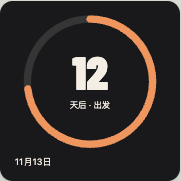
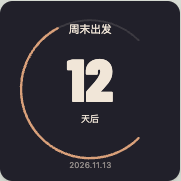
design: rework palette clock and refine seven capability templates

Changed region(s): [[0.1105, 0.0829, 0.884, 0.9392], [0.3591, 0.3039, 0.6354, 0.6906], [0.0829, 0.8564, 0.2762, 0.9392]]

diff --git a/design/template-library-2026-11-01/renderers.js b/design/template-library-2026-11-01/renderers.js
@@ -17,10 +17,19 @@ function list(r,style='plain'){if(!r.agenda.length)return '<div class="empty"><s
 function cover(){return `<div class="cover-art">${svg('<rect width="300" height="300" fill="#2B49BF"/><circle cx="185" cy="104" r="73" fill="#F3BD5B"/><path d="M0 160 Q80 100 150 170 T300 167 V300 H0Z" fill="#AAC6E2"/><path d="M0 229 Q90 161 166 229 T300 215 V300 H0Z" fill="#182C7A"/>')}</div>`;}
 function lesson(r){const n=r.next[0];return n?`<span class="eyebrow">${new Date(n.start).toDateString()===r.d.toDateString()?'今天':(new Date(n.start).getMonth()+1)+'月'+new Date(n.start).getDate()+'日'} · ${data.timeText(n.start)}</span><h2>${safe(r.title||n.title)}</h2><div class="course-meta"><strong>${data.timeText(n.start)}—${data.timeText(n.end)}</strong><span>${safe(n.location)}</span></div>`:'<div class="empty"><strong>暂时没有课程</strong><span>导入你的课表</span></div>';}
 function world(r){const shifted=new Date(r.tick-time.clockOffset('Asia/Tokyo',r.tick)*3600000);return {h:pad(shifted.getUTCHours()),m:pad(shifted.getUTCMinutes()),month:shifted.getUTCMonth()+1,day:shifted.getUTCDate(),date:time.cityReading('Asia/Tokyo',r.tick).date};}
+
+function arcPath(cx,cy,r,start,end){const point=a=>[cx+Math.sin(a*Math.PI/180)*r,cy-Math.cos(a*Math.PI/180)*r],a=point(start),b=point(end);return `M${a[0].toFixed(3)} ${a[1].toFixed(3)} A${r} ${r} 0 ${end-start>180?1:0} 1 ${b[0].toFixed(3)} ${b[1].toFixed(3)}`;}
+function paletteDial(r){const h=(r.d.getHours()%12)*30+r.d.getMinutes()/2,m=r.d.getMinutes()*6,stroke=(a,len,width,color)=>{const t=a*Math.PI/180;return line(150,150,150+Math.sin(t)*len,150-Math.cos(t)*len,color,width,'stroke-linecap="round"');};const hands=stroke(h,69,8,'#faffff')+stroke(h,69,4.7,'var(--hour-ink)')+stroke(m,104,5.2,'#faffff')+stroke(m,104,2.8,'var(--minute-ink)')+circle(150,150,4.1,'#fff')+circle(150,150,1.8,'#ee6690');return `<div class="palette-art" style="--hour-angle:${h}deg;--minute-angle:${m}deg;--day-angle:${r.d.getHours()*15}deg" role="img" aria-label="${r.h}:${r.m}"><div class="palette-band outer"></div><div class="palette-band middle"></div><div class="palette-band core"></div>${svg(hands)}<span class="palette-date">${r.month}.${r.day}</span></div>`;}
+function countdownArc(r,num){let x=`<path d="${arcPath(150,147,115,135,405)}" fill="none" stroke="currentColor" stroke-opacity=".13" stroke-width="3" stroke-linecap="round"/>`;if(r.countP>0)x+=`<path d="${arcPath(150,147,115,135,135+270*r.countP)}" fill="none" stroke="var(--accent)" stroke-width="4" stroke-linecap="round"/>`;x+=txt(num,150,169,100,'currentColor','middle','font-family="Barlow" font-weight="900"')+txt('天后',150,202,15,'currentColor','middle');return svg(x)+`<span class="orbit-title">${safe(r.title||'周末出发')}</span><span class="orbit-date">${r.empty?'设置目标日期':safe(r.targetDate.replaceAll('-','.'))}</span>`;}
+function daySegments(r){let x='';for(let i=0;i<24;i++){const start=i*15+2,end=i*15+13;x+=`<path d="${arcPath(150,146,103,start,end)}" fill="none" stroke="currentColor" stroke-opacity=".12" stroke-width="12"/>`;const fill=Math.max(0,Math.min(1,r.dayP*24-i));if(fill)x+=`<path d="${arcPath(150,146,103,start,start+11*fill)}" fill="none" stroke="var(--accent)" stroke-width="12"/>`;}x+=txt(Math.floor(r.dayP*100)+'%',150,158,64,'currentColor','middle','font-weight="350" letter-spacing="-3"')+txt('今天',150,184,14,'currentColor','middle')+txt('00',150,25,11,'currentColor','middle')+txt('06',278,150,11,'currentColor','middle')+txt('12',150,280,11,'currentColor','middle')+txt('18',22,150,11,'currentColor','middle');return svg(x);}
+function yearOrbit(r){let x='';for(let i=0;i<12;i++){const a=i*30*Math.PI/180;x+=line(150+Math.sin(a)*114,148-Math.cos(a)*114,150+Math.sin(a)*121,148-Math.cos(a)*121,'currentColor',1,'opacity=".25"');}x+=circle(150,148,102,'none','stroke="currentColor" stroke-opacity=".1" stroke-width="5"')+circle(150,148,102,'none',`stroke="var(--accent)" stroke-width="5" stroke-linecap="round" stroke-dasharray="${r.yearP*640.88} 640.88" transform="rotate(-90 150 148)"`)+txt(r.year,150,117,15,'currentColor','middle','opacity=".65"')+txt(Math.floor(r.yearP*100)+'%',150,170,63,'currentColor','middle','font-weight="350" letter-spacing="-3"');return svg(x)+`<div class="year-counts"><span><b>${r.yearDay}</b> 天已过</span><span><b>${r.daysInYear-r.yearDay}</b> 天剩余</span></div>`;}
+function sevenSegment(value){const masks={0:'abcedf',1:'bc',2:'abged',3:'abgcd',4:'fgbc',5:'afgcd',6:'afgecd',7:'abc',8:'abcdefg',9:'abfgcd','—':'g'},lines={a:[9,8,43,8],b:[48,15,48,61],c:[48,78,48,124],d:[9,132,43,132],e:[4,78,4,124],f:[4,15,4,61],g:[9,70,43,70]},chars=String(value??'—'),width=chars.length*65-13;let x='';[...chars].forEach((digit,i)=>{for(const [key,l] of Object.entries(lines))x+=line(...l,'currentColor',6,`transform="translate(${i*65} 0)" opacity="${(masks[digit]||'').includes(key)?'.93':'.07'}" stroke-linecap="square"`);});return svg(x,`-6 -3 ${width+12} 148`);}
+function weekSchedule(r){const start=8*60,end=16*60,courseCap={k:'timetable',semester:f.semester,courses:r.courses,skipHolidays:false},week=data.semesterWeek(f.semester,r.tick),events=lessons.weekLessons(courseCap,Math.max(1,week));return `<div class="top-line">周课表<span>第 ${week} 周</span></div><div class="schedule-days">${['一','二','三','四','五'].map(n=>`<span>${n}</span>`).join('')}</div><div class="schedule-axis">${[8,10,12,14,16].map((h,i)=>`<span style="top:${i*25}%">${pad(h)}</span>`).join('')}</div><div class="schedule-area">${events.filter(e=>e.day<=5).map(e=>{const when=new Date(e.event.start),until=new Date(e.event.end),a=when.getHours()*60+when.getMinutes(),b=until.getHours()*60+until.getMinutes(),top=(a-start)/(end-start)*100,height=(b-a)/(end-start)*100,name=r.long?'非常长的课程名称':e.event.title;return `<div class="schedule-event c${e.day%3}" style="left:${(e.day-1)*20+e.lane/e.lanes*19}%;width:${19/e.lanes}%;top:${top}%;height:${height}%" aria-label="${safe(name)} ${data.timeText(e.event.start)}"><b>${safe(name)}</b></div>`;}).join('')}</div>`;}
+
 function inner(id,r){const percent=Math.floor(r.dayP*100),yp=Math.floor(r.yearP*100),num=r.count===null?'—':r.count,elapsed=r.elapsed===null?'—':r.elapsed;
  switch(id){
  case 'standby':return `<div class="float-clock">${r.h}<span>:</span>${r.m}</div><div class="bottom-line">${r.month}月${r.day}日<span>${r.week}</span></div>`;
- case 'dial':return `<div class="dial-color"></div>${dial(r)}<span class="dial-date">${r.month}.${r.day}</span>`;
+ case 'dial':return paletteDial(r);
  case 'flip':return `<div class="flip-wrap">${[r.h,r.m].map(n=>`<div class="flip-face"><b>${n}</b><i></i></div>`).join('')}</div><div class="bottom-line">${r.month}月${r.day}日<span>${r.week}</span></div>`;
  case 'portrait':return `<div class="portrait-time">${r.h}:${r.m}</div><img class="portrait-cat" src="${A}cat-pipi.webp" alt="Painjet 的猫皮皮">`;
  case 'date-poster':return `<div class="top-line">${r.year}<span>${r.month}月</span></div><div class="date-huge">${r.day}</div><span class="vertical-week">${r.week}</span><div class="bottom-line">${r.month}月${r.day}日</div>`;
@@ -30,25 +39,25 @@ function inner(id,r){const percent=Math.floor(r.dayP*100),yp=Math.floor(r.yearP*
  case 'calendar-ledger':return `<div class="ledger-head"><b>${pad(r.month)}</b><span>${r.year}<small>${r.week}</small></span></div>${month(r)}`;
  case 'calendar-week':return `<span class="eyebrow">${r.month}月 · 本周</span><div class="week-title">${r.month}月${r.day}日</div>${week(r)}<span class="bottom-line">${r.week}</span>`;
  case 'countdown-poster':return `<span class="eyebrow">${safe(r.title||'周末出发')}</span><div class="count-huge">${num}<small>天</small></div><div class="bottom-line">${r.empty?'设置目标日期':r.targetDate.replaceAll('-','.')}</div>`;
- case 'countdown-orbit':return `${ring(r.countP,num,'天后 · '+(r.title||'出发'))}<div class="bottom-line">${r.empty?'设置目标日期':r.targetDate.slice(5).replace('-','月')+'日'}</div>`;
+ case 'countdown-orbit':return countdownArc(r,num);
  case 'countdown-paper':return `<div class="paper-top">${safe(r.title||'去看海')}</div><div class="paper-number">${num}<small>天后</small></div><div class="paper-end">${r.empty?'设置目标日期':r.targetDate.replaceAll('-',' / ')}</div>`;
  case 'anniversary-photo':return `<div class="photo-pet"><img src="${A}cat-pipi.webp" alt="Painjet 的猫皮皮"></div><div class="memory-copy"><span>${safe(r.title||'和皮皮相遇')}</span><strong>${elapsed}<small>天</small></strong></div>`;
  case 'anniversary-type':return `<span class="eyebrow">${safe(r.title||'在一起')}</span><div class="memory-type">${elapsed}</div><div class="bottom-line">天<span>${r.empty?'设置起始日期':'始于 2025.11.01'}</span></div>`;
- case 'anniversary-stamp':return `<div class="stamp">${svg(circle(150,150,120,'none','stroke="currentColor" stroke-width="1.5"')+circle(150,150,108,'none','stroke="currentColor" stroke-dasharray="2 5"')+txt(r.title||'值得纪念的一天',150,86,18,'currentColor','middle')+txt(elapsed,150,180,85,'currentColor','middle','font-family="Barlow" font-weight="900"')+txt('天 · '+(r.empty?'未设置':'2025.11.01'),150,216,14,'currentColor','middle'))}</div>`;
- case 'day-dial':return `${ring(r.dayP,percent+'%','今天已经走过')}<div class="bottom-line">00:00<span>24:00</span></div>`;
+ case 'anniversary-stamp':return `<div class="stamp">${svg(circle(150,150,120,'none','stroke="currentColor" stroke-width="1.5"')+circle(150,150,108,'none','stroke="currentColor" stroke-opacity=".35" stroke-width=".6"')+txt(r.title||'值得纪念的一天',150,86,18,'currentColor','middle')+txt(elapsed,150,178,78,'currentColor','middle','font-family="Georgia,serif" font-weight="400"')+txt('天 · '+(r.empty?'未设置':'2025.11.01'),150,216,14,'currentColor','middle'))}</div>`;
+ case 'day-dial':return daySegments(r);
  case 'day-timeline':return `<span class="eyebrow">今天</span><div class="progress-title">${percent}<small>%</small></div><div class="day-line"><span style="width:${r.dayP*100}%"></span><i style="left:${r.dayP*100}%"></i></div><div class="axis-labels"><span>00</span><span>06</span><span>12</span><span>18</span><span>24</span></div><div class="bottom-line">${r.h}:${r.m}<span>一天的进度</span></div>`;
  case 'day-blocks':return `<div class="top-line">一天<span>${percent}%</span></div><div class="hour-blocks">${Array.from({length:24},(_,i)=>`<i class="${i<r.d.getHours()?'past':i===r.d.getHours()?'now':''}"></i>`).join('')}</div><div class="bottom-line">${r.h}:${r.m}<span>24 小时</span></div>`;
  case 'year-dots':return `<div class="top-line"><strong>${r.year}</strong><span>${yp}%</span></div><div class="year-dots">${Array.from({length:r.daysInYear},(_,i)=>`<i class="${i<r.yearDay?'past':i===r.yearDay?'now':''}"></i>`).join('')}</div><div class="bottom-line">已过 ${r.yearDay} 天<span>剩余 ${r.daysInYear-r.yearDay} 天</span></div>`;
- case 'year-arc':return `${ring(r.yearP,r.yearDay,'天已过 · '+r.year)}<div class="bottom-line">${yp}%<span>还剩 ${r.daysInYear-r.yearDay} 天</span></div>`;
+ case 'year-arc':return yearOrbit(r);
  case 'year-months':return `<div class="top-line">${r.year}<span>${yp}%</span></div><div class="month-bars">${Array.from({length:12},(_,i)=>`<div><span>${i+1}</span><i style="--fill:${i<r.d.getMonth()?100:i===r.d.getMonth()?r.day/new Date(r.year,r.month,0).getDate()*100:0}%"></i></div>`).join('')}</div>`;
  case 'battery-ring':return ring(r.battery===null?0:r.battery/100,r.battery??'—','本机电量');
  case 'battery-cell':return `<span class="eyebrow">本机电量</span><div class="battery-glyph"><i style="height:${r.battery??0}%"></i><strong>${r.battery??'—'}</strong></div>`;
- case 'battery-segments':return `<span class="eyebrow">本机电量</span><div class="lcd-number">${r.battery??'—'}</div><div class="segments">${Array.from({length:10},(_,i)=>`<i class="${r.battery!==null&&i<Math.floor(r.battery/10)?'on':''}"></i>`).join('')}</div>`;
+ case 'battery-segments':return `<span class="eyebrow">本机电量</span><div class="lcd-reading">${sevenSegment(r.battery)}</div><div class="segments">${Array.from({length:10},(_,i)=>`<i style="background:linear-gradient(90deg,currentColor ${Math.max(0,Math.min(1,((r.battery??0)-i*10)/10))*100}%,#34432b14 0)"></i>`).join('')}</div>`;
  case 'agenda-editorial':return `<div class="top-line">接下来<span>${r.month}.${r.day}</span></div>${list(r,'editorial')}`;
  case 'agenda-timeline':return `<span class="eyebrow">今天的安排</span>${list(r,'timeline')}`;
  case 'agenda-paper':return `<div class="hand-title">今日小记<span>${r.month}/${r.day}</span></div>${list(r,'notebook')}`;
  case 'course-next':return lesson(r);
- case 'course-week':{let body='';for(let day=1;day<=5;day++){body+=`<div class="course-col"><span>${['','一','二','三','四','五'][day]}</span>`;for(let i=0;i<3;i++){const course=r.courses.filter(c=>c.day===day)[i];body+=`<div class="course-block c${(day+i)%3}">${course?safe(r.long?'非常长的课程名称':course.name):''}</div>`;}body+='</div>';}return `<div class="top-line">周课表<span>第 ${data.semesterWeek(f.semester,r.tick)} 周</span></div><div class="course-grid">${body}</div>`;}
+ case 'course-week':return weekSchedule(r);
  case 'course-slips':return `<div class="top-line">接下来<span>课程</span></div><div class="course-slips">${r.next.slice(0,3).map((e,i)=>`<div><time>${data.timeText(e.start)}</time><strong>${safe(r.title&&i===0?r.title:e.title)}</strong><small>${safe(e.location)}</small></div>`).join('')||'<div class="empty">暂时没有课程</div>'}</div>`;
  case 'world-dial':{const w=world(r);return `${dial(r,{world:true})}<div class="world-dial-label">东京 ${w.h}:${w.m}</div>`;}
  case 'world-duo':{const w=world(r);return `<div class="world-columns"><div><span>北京</span><b>${r.h}<small>${r.m}</small></b><em>${r.month}月${r.day}日</em></div><div><span>东京</span><b>${w.h}<small>${w.m}</small></b><em>${w.month}月${w.day}日</em></div></div>`;}

diff --git a/design/template-library-2026-11-01/templates.css b/design/template-library-2026-11-01/templates.css
@@ -21,3 +21,26 @@
 .mix-standby{aspect-ratio:2}.standby-duo{inset:5% 4%}.standby-duo>div+div>svg{top:24%;height:80%}.duo-date b{font-size:20cqw}.duo-date span{font-size:2.7cqw}
 .standby-digital{display:none}
 @container(max-width:210px){.mix-standby .standby-duo>div>svg{display:none}.standby-digital{display:block;font-size:13cqw;font-weight:400;letter-spacing:-.5cqw;position:absolute;top:30%;left:0;right:0;text-align:center}.mix-standby .duo-date{position:absolute;inset:0;display:flex;flex-direction:column;justify-content:center;gap:1cqw;align-items:center}.mix-standby .duo-date b{font-size:23cqw}.mix-standby .duo-date span{font-size:4cqw;text-align:center}}
+/* Palette revision 2: three independent time-oriented chromatic layers. */
+.dial{--bg:#8299ed;--ink:#fff;--accent:#fff;--p-blue:#739ef1;--p-cyan:#5ed8e6;--p-violet:#a28ce8;--p-pink:#ee599a;--p-yellow:#ede755;--hour-ink:#e5e459;--minute-ink:#6bdde2}
+.palette-art{position:absolute;inset:0;background:conic-gradient(from var(--day-angle) at 50% 50%,var(--p-cyan),var(--p-blue) 110deg,var(--p-violet) 210deg,var(--p-pink) 300deg,var(--p-cyan));isolation:isolate}
+.palette-art:after{content:'';position:absolute;inset:0;background:radial-gradient(ellipse at 32% 5%,#ffffff12,transparent 65%);pointer-events:none}
+.palette-band{position:absolute;left:50%;top:50%;transform:translate(-50%,-50%);aspect-ratio:1;border-radius:50%}
+.palette-band.outer{width:78%;background:conic-gradient(from var(--minute-angle),var(--p-cyan),var(--p-blue) 95deg,var(--p-violet) 165deg,var(--p-pink) 285deg,var(--p-cyan));box-shadow:inset 0 0 0 .12cqw #fff1}
+.palette-band.middle{width:49%;background:conic-gradient(from var(--hour-angle),var(--p-yellow) 0deg,var(--p-yellow) 19deg,var(--p-cyan) 125deg,var(--p-blue) 175deg,var(--p-pink) 285deg,var(--p-yellow));box-shadow:inset 0 0 0 .12cqw #fff1}
+.palette-band.core{width:20%;background:conic-gradient(from var(--minute-angle),var(--p-cyan),var(--p-blue) 100deg,var(--p-pink) 210deg,var(--p-yellow) 290deg,var(--p-cyan))}
+.palette-art>svg{position:absolute;inset:0;z-index:2;filter:drop-shadow(0 .2cqw .2cqw #485c9c15)}
+.palette-date{position:absolute;bottom:8%;left:0;right:0;text-align:center;font-size:4cqw;font-weight:500;color:#fff;text-shadow:0 .2cqw .4cqw #4a447d33;z-index:3}
+.dial.palette-cobalt{--p-blue:#447dcc;--p-cyan:#9edbd8;--p-violet:#8298dd;--p-pink:#be97d9;--p-yellow:#bfead7;--hour-ink:#bfead7;--minute-ink:#75c9d9}
+.dial.palette-cream{--p-blue:#dcad71;--p-cyan:#ebdca2;--p-violet:#ce9a8e;--p-pink:#bd6075;--p-yellow:#f3e4b0;--hour-ink:#f2dc9a;--minute-ink:#df967b}
+.dial.palette-ink{--p-blue:#6c6fac;--p-cyan:#a6a7d8;--p-violet:#8e75bb;--p-pink:#d37dad;--p-yellow:#d0b7d7;--hour-ink:#d5b6d6;--minute-ink:#a8a8d9}
+.countdown-orbit{--bg:#21202a;--ink:#f1e6d8;--accent:#d9a07a}.countdown-orbit>svg{position:absolute;inset:0;height:100%}.orbit-title{position:absolute;top:12%;left:15%;right:15%;text-align:center;font-size:5.3cqw;line-height:1.4;overflow-wrap:anywhere}.orbit-date{position:absolute;bottom:12%;left:5%;right:5%;text-align:center;font-size:4cqw;opacity:.55}
+.day-dial{--bg:#e6e8dc;--ink:#344630;--accent:#74835a}.day-dial>svg{height:100%}
+.year-arc{--bg:#34253c;--ink:#f0e5f2;--accent:#c69ed6}.year-arc>svg{height:100%}.year-counts{position:absolute;bottom:5%;left:9%;right:9%;display:flex;justify-content:space-between;font-size:3.4cqw;opacity:.75}.year-counts b{font-size:4.8cqw;font-weight:500;margin-right:.8cqw}
+.calendar-ledger{--bg:#f1ede3;--ink:#484033;--accent:#a14f3a}.ledger-head>b{font:400 21cqw/1 Georgia,serif;letter-spacing:-1cqw}.ledger-head>span{font-size:3.6cqw}.calendar-ledger svg text{font-family:Georgia,'Songti SC',serif}.calendar-ledger:before{opacity:.15}
+.anniversary-stamp{--bg:#eee4d2;--ink:#8e533e}.anniversary-stamp:before{opacity:.16}
+.battery-segments{--bg:#d5d8b2;--ink:#35452e;--accent:#35452e}.battery-segments:before{inset:7%;border-color:#35452e29;box-shadow:inset 0 .5cqw 1cqw #35452e08}.battery-segments .eyebrow{top:12%;left:12%;font-size:4.5cqw;font-weight:400;opacity:.7}.lcd-reading{position:absolute;inset:26% 20% 28% 16%;transform:skew(-5deg);color:var(--ink)}.lcd-reading svg{height:100%;width:100%}.battery-segments .segments{inset:78% 12% 13%;gap:2.5%}
+.course-week{--bg:#eeeee8;--ink:#3e453b}.schedule-days{position:absolute;left:17%;right:6%;top:20%;display:grid;grid-template-columns:repeat(5,1fr);font-size:4cqw;text-align:center;color:#7a8275}.schedule-axis{position:absolute;left:6%;width:8%;top:29%;height:59%;font-size:3.3cqw;color:#8a9182}.schedule-axis span{position:absolute;left:0;transform:translateY(-50%)}.schedule-area{position:absolute;left:17%;right:6%;top:29%;height:59%;background:repeating-linear-gradient(to bottom,#5c6b4f18 0px,#5c6b4f18 1px,transparent 1px,transparent 25%)}.schedule-event{position:absolute;display:flex;align-items:center;justify-content:center;overflow:hidden;padding:1cqw;background:#d9ddca;border-radius:1.5cqw}.schedule-event.c0{background:#e2d6bd;color:#6c5637}.schedule-event.c1{background:#cedad6;color:#3c5a51}.schedule-event.c2{background:#ddd5e5;color:#655371}.schedule-event b{max-width:2em;font-size:3.9cqw;font-weight:450;line-height:1.15;text-align:center;display:-webkit-box;-webkit-line-clamp:2;-webkit-box-orient:vertical;overflow:hidden;word-break:break-all}
+@container(max-width:210px){.palette-date{font-size:5cqw}.orbit-title{font-size:6cqw}.orbit-date{font-size:5cqw}.year-counts{font-size:4.3cqw}.year-counts b{font-size:5cqw}.schedule-days{font-size:5cqw}.schedule-axis{font-size:4.5cqw}.schedule-event b{font-size:4.8cqw}.battery-segments .eyebrow{font-size:5cqw}}
+.orbit-date{bottom:6%;font-size:3.8cqw}
+@container(max-width:210px){.orbit-date{font-size:4.5cqw}}

diff --git a/design/template-library-2026-11-01/gallery.js b/design/template-library-2026-11-01/gallery.js
@@ -24,11 +24,11 @@ function host(){const o=options();$('stage').className='stage '+place+(selected.
  }
  $('host-controls').hidden=place!=='fill';press('[data-place]','place',place);
 }
-function open(id){selected=catalog.find(c=>c.id===id);if(!drafts.has(id))drafts.set(id,{});place='card';$('detail-name').textContent=selected.name;$('sources').textContent=selected.sources.map(s=>categories.find(([k])=>k===s)?.[1]||s).join(' + ');$('customizable').textContent='可定制：'+selected.customize.join('、');$('title-field').hidden=!(titleKinds.includes(selected.kind)||['mix-modular','mix-study','mix-travel'].includes(selected.id));$('depth-field').hidden=id!=='portrait';const o=options();$('title').value=o.title||'';$('depth').checked=o.depth!==false;$('background').value=o.background||'template';$('frame').value=o.frame||'none';press('[data-palette]','palette',o.palette||'');$('pick').textContent=picked.has(id)?'已收藏 · 取消收藏':'收藏这款';host();$('detail').showModal();}
+function open(id){selected=catalog.find(c=>c.id===id);if(!drafts.has(id))drafts.set(id,{});place='card';$('detail-name').textContent=selected.name;$('sources').textContent=selected.sources.map(s=>categories.find(([k])=>k===s)?.[1]||s).join(' + ');$('customizable').textContent='可定制：'+selected.customize.join('、');$('title-field').hidden=!(titleKinds.includes(selected.kind)||['mix-modular','mix-study','mix-travel'].includes(selected.id));$('depth-field').hidden=id!=='portrait';$('dial-time-field').hidden=id!=='dial';document.querySelectorAll('[data-palette]').forEach(b=>b.textContent=(id==='dial'?{'':'光谱',cobalt:'海蓝',cream:'暖光',ink:'暮紫'}:{'':'原配',cobalt:'钴蓝',cream:'纸白',ink:'墨黑'})[b.dataset.palette]);const o=options();$('title').value=o.title||'';const clock=new Date(o.tick??LibraryFixtures.tick);$('dial-time').value=String(clock.getHours()).padStart(2,'0')+':'+String(clock.getMinutes()).padStart(2,'0');$('depth').checked=o.depth!==false;$('background').value=o.background||'template';$('frame').value=o.frame||'none';press('[data-palette]','palette',o.palette||'');$('pick').textContent=picked.has(id)?'已收藏 · 取消收藏':'收藏这款';host();$('detail').showModal();}
 function set(key,value){drafts.set(selected.id,{...drafts.get(selected.id),[key]:value});host();}
 $('filters').innerHTML=[['all','全部'],...categories].map(([k,n])=>`<button data-filter="${k}" aria-pressed="${k==='all'}">${n}</button>`).join('');document.querySelectorAll('[data-filter]').forEach(b=>b.onclick=()=>{kind=b.dataset.filter;gallery();});
 $('scenario').onchange=e=>{scenario=e.target.value;gallery();};$('size').onchange=e=>document.body.classList.toggle('compact',e.target.value==='180');$('review').onclick=()=>{onlyPicked=!onlyPicked;$('review').setAttribute('aria-pressed',String(onlyPicked));gallery();};$('close').onclick=()=>{$('detail').close();gallery();};$('detail').addEventListener('click',e=>{if(e.target===$('detail')){const r=$('detail').getBoundingClientRect();if(e.clientX<r.left||e.clientX>r.right||e.clientY<r.top||e.clientY>r.bottom){$('detail').close();gallery();}}});$('detail').addEventListener('cancel',()=>requestAnimationFrame(gallery));
-$('title').oninput=e=>set('title',e.target.value);$('depth').onchange=e=>set('depth',e.target.checked);$('background').onchange=e=>set('background',e.target.value);$('frame').onchange=e=>set('frame',e.target.value);document.querySelectorAll('[data-palette]').forEach(b=>b.onclick=()=>{set('palette',b.dataset.palette);press('[data-palette]','palette',b.dataset.palette);});document.querySelectorAll('[data-place]').forEach(b=>b.onclick=()=>{place=b.dataset.place;host();});$('pick').onclick=()=>toggle(selected.id);
+$('dial-time').oninput=e=>{if(!/^\d{2}:\d{2}$/.test(e.target.value))return;const [h,m]=e.target.value.split(':').map(Number),d=new Date(LibraryFixtures.tick);d.setHours(h,m,0,0);set('tick',d.getTime());};$('title').oninput=e=>set('title',e.target.value);$('depth').onchange=e=>set('depth',e.target.checked);$('background').onchange=e=>set('background',e.target.value);$('frame').onchange=e=>set('frame',e.target.value);document.querySelectorAll('[data-palette]').forEach(b=>b.onclick=()=>{set('palette',b.dataset.palette);press('[data-palette]','palette',b.dataset.palette);});document.querySelectorAll('[data-place]').forEach(b=>b.onclick=()=>{place=b.dataset.place;host();});$('pick').onclick=()=>toggle(selected.id);
 window.LibraryDemo={open,setScenario:v=>{scenario=v;$('scenario').value=v;gallery();},snapshot:()=>({kind,scenario,picked:[...picked],selected:selected?.id,place,drafts:Object.fromEntries(drafts)}),render:TemplateRender.render,catalog};
-persist();gallery();
+persist();gallery();const deepLink=new URLSearchParams(location.search).get('design');if(catalog.some(c=>c.id===deepLink)){kind=catalog.find(c=>c.id===deepLink).kind;gallery();open(deepLink);}
 })();

diff --git a/design/template-library-2026-11-01/index.html b/design/template-library-2026-11-01/index.html
@@ -3,5 +3,5 @@
 <main><div class="toolbar"><div id="filters" role="group" aria-label="按能力筛选"></div><div class="view-controls"><label>尺寸<select id="size"><option value="300">标准</option><option value="180">小尺寸</option></select></label><label>数据<select id="scenario"><option value="demo">示例</option><option value="empty">未设置</option><option value="long">长内容</option></select></label><button id="review" aria-pressed="false">只看收藏 <span id="picked-count">0</span></button></div></div>
 <div id="results" aria-live="polite"></div><div id="gallery"></div><div id="no-results" hidden>还没有收藏模板。</div></main>
 <footer class="page-footer">设计样稿 · 时间、电量与日程采用示例数据 · <a href="../template-capabilities-2026-11-01/LICENSES.md">真实素材与字体授权</a></footer>
-<dialog id="detail"><div class="dialog-head"><h2 id="detail-name"></h2><button id="close" aria-label="关闭">×</button></div><div class="detail-layout"><div><div id="stage" class="stage"></div><div class="placement" role="group" aria-label="放置方式"><button data-place="card" aria-pressed="true">作为卡片</button><button data-place="fill" aria-pressed="false">铺满画布</button></div></div><aside><p id="sources"></p><fieldset><legend>配色</legend><div class="palettes"><button data-palette="" aria-pressed="true">原配</button><button data-palette="cobalt" aria-pressed="false">钴蓝</button><button data-palette="cream" aria-pressed="false">纸白</button><button data-palette="ink" aria-pressed="false">墨黑</button></div></fieldset><label id="title-field">标题<input id="title" maxlength="48" placeholder="保留原文"></label><label id="depth-field" hidden>景深<input type="checkbox" id="depth" checked></label><div id="host-controls" hidden><label>背景<select id="background"><option value="template">随模板</option><option value="light">浅色</option><option value="dark">深色</option></select></label><label>画框<select id="frame"><option value="none">无</option><option value="stone">白岩</option><option value="walnut">胡桃木</option><option value="oak">浅橡木</option></select></label></div><p id="customizable"></p><button id="pick">收藏这款</button></aside></div></dialog>
+<dialog id="detail"><div class="dialog-head"><h2 id="detail-name"></h2><button id="close" aria-label="关闭">×</button></div><div class="detail-layout"><div><div id="stage" class="stage"></div><div class="placement" role="group" aria-label="放置方式"><button data-place="card" aria-pressed="true">作为卡片</button><button data-place="fill" aria-pressed="false">铺满画布</button></div></div><aside><p id="sources"></p><fieldset><legend>配色</legend><div class="palettes"><button data-palette="" aria-pressed="true">原配</button><button data-palette="cobalt" aria-pressed="false">钴蓝</button><button data-palette="cream" aria-pressed="false">纸白</button><button data-palette="ink" aria-pressed="false">墨黑</button></div></fieldset><label id="dial-time-field" hidden>预览时间<input id="dial-time" type="time" value="09:41"></label><label id="title-field">标题<input id="title" maxlength="48" placeholder="保留原文"></label><label id="depth-field" hidden>景深<input type="checkbox" id="depth" checked></label><div id="host-controls" hidden><label>背景<select id="background"><option value="template">随模板</option><option value="light">浅色</option><option value="dark">深色</option></select></label><label>画框<select id="frame"><option value="none">无</option><option value="stone">白岩</option><option value="walnut">胡桃木</option><option value="oak">浅橡木</option></select></label></div><p id="customizable"></p><button id="pick">收藏这款</button></aside></div></dialog>
 <script src="../../previewer/shared-models.js"></script><script src="../../previewer/shared-materials.js"></script><script src="../../previewer/capabilities.js"></script><script src="../../previewer/renderer.js"></script><script src="catalog.js"></script><script src="fixtures.js"></script><script src="renderers.js"></script><script src="gallery.js"></script></body></html>

diff --git a/design/template-library-2026-11-01/catalog.js b/design/template-library-2026-11-01/catalog.js
@@ -3,7 +3,7 @@ const categories=[['clock','时间'],['date','日期'],['calendar','台历'],['c
 // Stable design IDs; schemes are preview definitions, not native package fields.
 const rows=[
 ['clock','standby','浮字','StandBy','薄字、横向留白、远距离读数',['配色','12/24 小时制','日期']],
-['clock','dial','色盘','Watch Palette / Simple','盘面色块、清晰指针与小时刻度',['配色','数字刻度']],
+['clock','dial','色盘','Watch Palette / Simple','三层叠色随指针位置变化，白描边指针',['光谱/海蓝/暖光/暮紫','时间']],
 ['clock','flip','翻页','物件 / 热门翻页钟','数字面与机械接缝',['深浅色','12/24 小时制']],
 ['clock','portrait','景深照片','Watch Photos','个人抠图与大数字前后遮挡',['照片','景深','位置','配色']],
 ['date','date-poster','日历海报','StandBy 日期','大日期与竖向星期分工',['强调色','星期']],
@@ -13,7 +13,7 @@ const rows=[
 ['calendar','calendar-ledger','月记','纸本 / 编辑排版','月份大标题与衬线日期',['纸色','强调色']],
 ['calendar','calendar-week','周历','紧凑日历','只保留本周的七天',['周起始','配色']],
 ['countdown','countdown-poster','出发','大数字海报','目标标题、极大剩余天数',['标题','目标日期','配色']],
-['countdown','countdown-orbit','环绕','Watch 图形信息','剩余天数置中，外圈按起止区间显示',['目标日期','起始日期','配色']],
+['countdown','countdown-orbit','环绕','Watch 图形信息','薄弧显示区间进度，剩余天数置中',['目标日期','起始日期','配色']],
 ['countdown','countdown-paper','撕页','纸本','独立数字面与目标日期',['标题','目标日期','纸色']],
 ['anniversary','anniversary-photo','相遇','照片 / 个性内容','照片与共同经历的天数',['照片','标题','起始日期']],
 ['anniversary','anniversary-type','记忆','编辑排版','高反差大数字与日期刻印',['标题','起始日期','配色']],
@@ -31,7 +31,7 @@ const rows=[
 ['agenda','agenda-timeline','时间轴','Watch Modular','时间与事件沿同一轴排列',['强调色','时间格式']],
 ['agenda','agenda-paper','手帐','纸本','细横线与安静标题',['纸色','信息密度']],
 ['timetable','course-next','下节课','Watch Modular Duo','下一节课程做主角，时间地点收在底部',['课程来源','配色']],
-['timetable','course-week','一周课表','网格 / 功能型','五个工作日的课程结构',['课程来源','配色']],
+['timetable','course-week','一周课表','网格 / 功能型','五个工作日按真实课程时间排列',['课程来源','配色']],
 ['timetable','course-slips','课程纸条','冰箱贴','当日课程按时间分成小纸条',['课程来源','纸色']],
 ['worldclock','world-dial','异地','Watch GMT','双时区指针与目的地时间',['城市','配色']],
 ['worldclock','world-duo','两地','StandBy 分栏','本地与目的地两列直接比较',['城市','12/24 小时制']],
@@ -49,6 +49,6 @@ const rows=[
 ['ensemble','mix-memory','相片日历','照片 + 纸本','纪念日照片 + 日期 + 农历',['照片','起始日期','配色']]
 ];
 const sourceMap={'mix-standby':['clock','calendar'],'mix-modular':['clock','agenda','battery'],'mix-study':['clock','timetable','dayprogress'],'mix-travel':['worldclock','countdown'],'mix-memory':['anniversary','date','lunar']};
-const catalog=rows.map(([kind,id,name,reference,intent,customize])=>({kind,id,name,reference,intent,customize,sources:sourceMap[id]||[kind],scope:kind==='ensemble'?'group':'card',aspect:id==='mix-standby'?2:1,revision:1}));
+const catalog=rows.map(([kind,id,name,reference,intent,customize])=>({kind,id,name,reference,intent,customize,sources:sourceMap[id]||[kind],scope:kind==='ensemble'?'group':'card',aspect:id==='mix-standby'?2:1,revision:['dial','countdown-orbit','day-dial','year-arc','course-week','anniversary-stamp','calendar-ledger','battery-segments'].includes(id)?2:1}));
 g.TemplateCatalog={categories,catalog};if(typeof module!=='undefined')module.exports=g.TemplateCatalog;
 })(globalThis);

diff --git a/design/template-library-2026-11-01/polish.html b/design/template-library-2026-11-01/polish.html
@@ -1,0 +1,4 @@
+<!doctype html><html lang="zh-CN"><meta charset="utf-8"><meta name="viewport" content="width=device-width,initial-scale=1"><title>模板精修 · 调色盘</title><link rel="stylesheet" href="templates.css"><style>*{box-sizing:border-box}body{margin:0;background:#e7e8e5;color:#2a302b;font-family:-apple-system,BlinkMacSystemFont,'PingFang SC',sans-serif}main{max-width:1380px;padding:32px;margin:auto}header{display:flex;justify-content:space-between;align-items:baseline;margin-bottom:25px}h1{margin:0;font-size:24px}header a{font-size:12px;color:#76806f;text-decoration:none}.palette-grid{display:grid;grid-template-columns:repeat(4,minmax(0,1fr));gap:20px}.more-grid{display:grid;grid-template-columns:repeat(3,minmax(0,1fr));gap:28px 26px}figure{margin:0;min-width:0}.mount{padding:13px;border-radius:23px;background:#d8dcd4}.slot{container-type:inline-size;width:100%}.art{box-shadow:0 2px 3px #0001,0 10px 20px #24352314}figcaption{display:flex;justify-content:space-between;gap:15px;font-size:12px;margin-top:12px}figcaption small{font-size:10px;color:#7c8576}section>h2{font-size:18px;font-weight:550;margin:35px 0 22px}footer{font-size:11px;color:#7b8475;margin-top:30px}.hero-only .more{display:none}@media(max-width:700px){main{padding:23px 17px}.palette-grid{grid-template-columns:repeat(2,minmax(0,1fr));gap:24px 15px}.more-grid{grid-template-columns:repeat(2,minmax(0,1fr));gap:24px 15px}.mount{padding:9px;border-radius:17px}h1{font-size:21px}}</style><main><header><h1>调色盘 · 重做</h1><a href="index.html">完整模板库</a></header><section class="palette-grid" id="palette"></section><section class="more"><h2>其他精修样稿</h2><div class="more-grid" id="more"></div></section><footer>真实代码渲染 · 示例时间 09:41 · 配色可随时间变化</footer></main><script src="../../previewer/shared-models.js"></script><script src="catalog.js"></script><script src="fixtures.js"></script><script src="renderers.js"></script><script>
+const fig=(id,opts,label)=>`<figure><div class="mount"><div class="slot">${TemplateRender.render(id,opts)}</div></div><figcaption>${label||TemplateCatalog.catalog.find(c=>c.id===id).name}<small>${id==='dial'?'调色盘':'精修'}</small></figcaption></figure>`;
+document.getElementById('palette').innerHTML=[['','光谱'],['cobalt','海蓝'],['cream','暖光'],['ink','暮紫']].map(([palette,label])=>fig('dial',{palette},label)).join('');document.getElementById('more').innerHTML=['countdown-orbit','day-dial','year-arc','course-week','calendar-ledger','battery-segments'].map(id=>fig(id,{})).join('');if(new URLSearchParams(location.search).has('hero'))document.body.classList.add('hero-only');
+</script></html>

diff --git a/design/template-library-2026-11-01/gallery.css b/design/template-library-2026-11-01/gallery.css
@@ -3,3 +3,5 @@
 @media(min-width:1100px){.grid.clock-grid{grid-template-columns:repeat(4,minmax(0,1fr))}}
 .stage.card.wide>.slot{top:31%;bottom:auto}.stage.fill.wide{aspect-ratio:2}
 .stage.fill.framed.wide>.slot{top:16%;bottom:16%}
+
+#dial-time{min-width:0;width:130px;border:1px solid #ccd2c6;background:#f9faf7;border-radius:9px;padding:8px;font-size:13px;color:inherit}

diff --git a/design/template-library-2026-11-01/DESIGN-REFERENCES.md b/design/template-library-2026-11-01/DESIGN-REFERENCES.md
@@ -47,3 +47,17 @@
 没有新生成式 AI 素材。照片/纸张/字体引用 [上次保留的授权文件](../template-capabilities-2026-11-01/LICENSES.md)：Painjet 真实猫照片 CC BY 4.0、ambientCG 纸张 CC0、Barlow Condensed OFL。
 
 本地专辑示例封面为本目录 `renderers.js` 中原创几何构图，标题“蓝色练习”，不是商业唱片封面或在线音乐功能。其余为可编辑 HTML/CSS/SVG 设计，未引入 Apple 资产。
+
+
+## 2026-11-01 精修：调色盘与弱项
+
+用户指出原调色盘明显弱于 Apple，重新核对 [watchOS 10 官方发布说明](https://www.apple.com/uk/newsroom/2023/09/watchos-10-is-available-today/) 及其中 Palette 的官方照片（Image 16）。官方照片仅用于研究，没有纳入仓库或运行素材。画面观察：三层同心叠色、颜色随指针方向分布，细白描边指针，盘面没有原样稿的 60 个刻度和四个大数字。原稿混入传统指针钟的元素，固定低饱和四色使时间与颜色失去关系。
+
+- 调色盘改为独立 renderer；背景、外环、中环与中心叠色，小时/分钟角度参与色相分布，指针从中心精确对齐。光谱、海蓝、暖光、暮紫为同一模板的配色，不增加模板计数。没有用 Apple 字体、截图或运行素材。
+- 环绕倒计时改薄弧；日期与弧线分开，降低圆环对主读数的压迫。
+- 今日进度改为 24 段，数量与小时直接对应；部分时段按实际进度填充。
+- 年轮改轻字重百分比、细轨道与月刻度，已过/剩余天数回到页脚。
+- 周课表从逐列堆叠改成按实际开始/结束时间定位。使用生产 weekLessons 的日期、lane 与 lanes；小尺寸课程名称按两字宽控制断行。
+- 月记改为衬线月份与日期；纪念章收细边线和字重；电格改为真实七段数字与部分格填充。
+
+精修前截图保存在 `previews/polish-before.png`；精修总览 `polish.png`，调色盘配色总览 `palette-v2.png`。定义 revision 对这 8 款升为 2；图库仍为 40 款单卡 + 5 组组合。

diff --git a/design/template-library-2026-11-01/README.md b/design/template-library-2026-11-01/README.md
@@ -2,6 +2,10 @@
 
 2026-11-01。用户确认：模板是一张 card，可作为普通卡片或铺满 canvas；铺满后使用原背景/画框。正式界面保持原设计；添加卡片以“模板 / 创作”滑动切换，自由创作保留原编辑器。本次任务先扩充设计候选，正式 App 集成尚未开始。
 
+## 最新精修
+
+[调色盘与其他精修样稿](polish.html)：重做三层随时间变化的叠色与白描边指针，4 组配色；改进环绕、一天、年轮、周课表、月记、电格和纪念章。共 8 款，模板总数不变。图库点开调色盘可改预览时间。
+
 ## 查看
 
 打开 `index.html`。按能力筛选，切换标准/小尺寸、示例/未设置/长内容；星标收藏保存在本浏览器。点开一款可比较卡片与铺满画布、配色、适用的标题和景深。铺满样稿直接调用现有 FridgeWeb renderer 的生产背景/画框素材，支持白岩、胡桃木、浅橡木。
